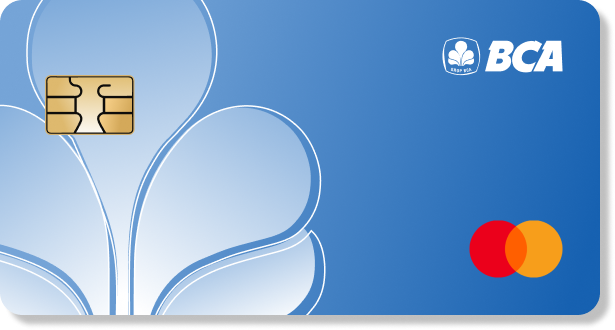
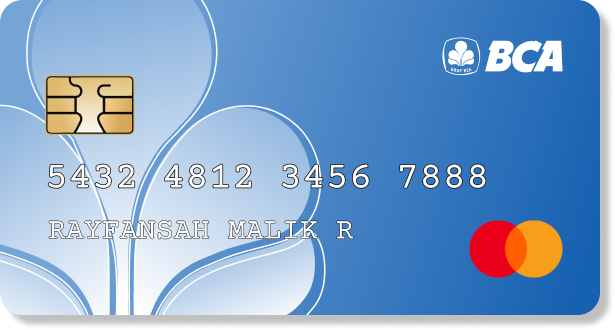
finish popup

diff --git a/content.html b/content.html
@@ -218,7 +218,7 @@
                         <h5 class="font-avenue-dream">Rayfan & Clarissa</h5>
                         <div class="header-title">
                             <p>Konfirmasi Kehadiranmu</p>
-                            <div class="exit-button">
+                            <div class="exit-button" onclick="btnExit()">
                                 <img src="assets/icons/exit.png" alt="exit">
                             </div>
                         </div>
@@ -257,28 +257,29 @@
                 </div>
                 <div class="popup-kirim">
                     <div class="popup-header">
-                        <h2>Kirim Hadiah</h2>
+                        <h2 class="font-avenue-dream font-color-blue">Kirim Hadiah</h2>
+                        <div class="exit-button" onclick="btnExit()">
+                            <img src="assets/icons/exit.png" alt="exit">
+                        </div>
                     </div>
                     <div class="popup-section">
-                        <p>Kamu bisa kirim kado ke alamat yang tertera di bawah ini :</p>
+                        <p class="font-color-brown">Kamu bisa kirim kado ke alamat yang tertera di bawah ini :</p>
                         <div class="address">
                             <div class="icon-address">
-                                <img src="assets/icons/location.png" alt="location">
+                                <img src="assets/icons/location-blue.png" alt="location">
                             </div>
-                            <p>Perumahan Citra Land blok A2, No. 4, Tamalanrea, Makassar, Sulawesi Selatan 90121</p>
+                            <p class="font-color-blue">Perumahan Citra Land blok A2, No. 4, Tamalanrea, Makassar, Sulawesi Selatan 90121</p>
                         </div>
-                        <p>Atau kamu bisa transfer uang ke rekening di bawah ini :</p>
+                        <p class="font-color-brown">Atau kamu bisa transfer uang ke rekening di bawah ini :</p>
                         <div class="transfer">
-                            <p>5432 4812 3456 7888</p>
-                            <p>RAYFANSAH MALIK R</p>
-                            <img src="assets/img/button-copy-rek.png" alt="button-copy-rek">
+                            <div class="copyrek"><a href=""><img src="assets/img/button-copy-rek.png" alt="button-copy-rek"></a></div>
                             <img src="assets/img/atm.png" alt="atm">
                         </div>
                         <div class="indicator">
-                            <div class="circle"></div>
-                            <div class="circle"></div>
-                            <div class="circle"></div>
-                            <div class="circle"></div>
+                            <div class="circle circle1"></div>
+                            <div class="circle circle2"></div>
+                            <div class="circle circle3"></div>
+                            <div class="circle circle4"></div>
                         </div>
                     </div>
                 </div>
@@ -291,7 +292,7 @@
                         </div>
                         <div class="rectangle-photo">
                             <div class="rectangle-relative"></div>
-                            <div class="rectangle-blue">
+                            <div class="rectangle-blue" onclick="btnKonfirmasi()">
                                 <h3 class="font-avenue-dream">Konfirmasi
                                     <br>Kehadiran</h3>
                             </div>
@@ -312,7 +313,7 @@
                                 <img src="assets/img/kirim_hadiah.png" alt="kirim_hadiah">
                             </div>
                             <div class="rectangle-relative"></div>
-                            <div class="rectangle-blue">
+                            <div class="rectangle-blue" onclick="btnKirim()">
                                 <h3 class="font-avenue-dream">Kirim
                                     <br>Hadiah</h3>
                             </div>

diff --git a/assets/css/style.css b/assets/css/style.css
@@ -57,6 +57,10 @@ img{
     color: #F8D18A;
 }
 
+.font-color-brown{
+    color: #AC936B;
+}
+
 container{
     background-color: rgb(255, 198, 127);
 }
@@ -681,20 +685,29 @@ container{
 }
 
 .popup{
+    z-index: 99999999999999;
+    position: fixed;
+    background: rgba(255, 255, 255, 0.1);
+    backdrop-filter: blur(10px);
     width: 100%;
-    padding: 8% 0;
+    height: 100vh;
     display: flex;
     flex-direction: column;
     align-items: center;
     justify-content: center;
-    background-color: #396793;
+    background-color: #fff;
+}
+
+.popup{
+    display: none;
 }
 
 .popup-konfirmasi, .popup-kirim{
+    position: relative;
     width: 85%;
-    height: 100%;
     background-color: #fff;
     border-radius: 30px;
+    box-shadow: 0 5px 25px rgb(0 0 0 / 20%);
 }
 
 .popup-header{
@@ -707,9 +720,9 @@ container{
     text-align: center;
     display: flex;
     align-items: center;
+    justify-content: center;
     padding: 15px;
     font-size: 14.29px;
-    font-weight: 400;
 }
 
 .popup-header .header-title{
@@ -727,7 +740,7 @@ container{
     font-weight: 400;
 }
 
-.popup-konfirmasi .exit-button{
+.popup-konfirmasi .exit-button, .popup-kirim .exit-button{
     width: 4%;
 }
 
@@ -745,7 +758,6 @@ container{
 .popup-section1 h4{
     font-size: 17.14px;
     margin-bottom: 0;
-    font-weight: 400;
 }
 
 .popup-konfirmasi .surat-ornaments{
@@ -769,7 +781,6 @@ container{
     margin-bottom: 12px;
     cursor: pointer;
     font-size: 15.71px;
-    font-weight: 400;
     -webkit-user-select: none;
     -moz-user-select: none;
     -ms-user-select: none;
@@ -849,15 +860,86 @@ container{
 
 .popup-footer .footer-title h2{
     font-size: 20px;
-    font-weight: 400;
     margin-bottom: 0;
     padding: 15px 15px 0 15px;
 }
 .popup-footer .footer-title h3{
     font-size: 18.57px;
-    font-weight: 400;
     margin-bottom: 0;
     padding: 0 15px 15px 15px;
+}
+
+.popup-kirim .popup-header{
+    padding: 15px;
+    display: flex;
+    justify-content: space-between;
+    align-items: center;
+}
+
+.popup-kirim .popup-header h2{
+    margin: 0;
+    font-size: 21.43px;
+}
+
+.popup-kirim .popup-section{
+    padding: 15px;
+}
+
+.popup-kirim .popup-section p{
+    margin-bottom: 0;
+    font-size: 14.29px;
+    font-weight: 600;
+}
+
+.popup-kirim .popup-section .address{
+    display: flex;
+    flex-direction: row;
+    align-items: center;
+    width: 100%;
+    margin: 15px 0;
+}
+
+.popup-kirim .popup-section .icon-address{
+    width: 6%;
+    margin-right: 10px;
+}
+
+.popup-kirim .popup-section .address p{
+    font-size: 12.86px;
+    font-weight: 400;
+}
+
+.popup-kirim .popup-section .transfer{
+    margin: 15px 0;
+    position: relative;
+}
+
+.popup-kirim .popup-section .transfer .copyrek{
+    position: absolute;
+    right: 15px;
+    bottom: 15px;
+    text-align: right;
+    width: 10.5%;
+}
+
+.popup-kirim .popup-section .indicator{
+    display: flex;
+    justify-content: center;
+}
+
+.popup-kirim .popup-section .indicator .circle{
+    width: 5px;
+    height: 5px;
+    background-color: #D9D9D9;
+    border-radius: 100%;
+}
+
+.popup-kirim .popup-section .indicator .circle1{
+    background-color: #396793;
+}
+
+.indicator .circle1, .indicator .circle2, .indicator .circle3{
+    margin-right: 5px;
 }
 
 .section10 .vector{
@@ -926,6 +1008,7 @@ container{
     align-items: center;
     justify-content: center;
     position: absolute;
+    cursor: pointer;
 }
 
 .section10 .konfirmasi .rectangle-blue{

diff --git a/assets/js/script.js b/assets/js/script.js
@@ -57,3 +57,31 @@ function updateclock(remainingTime) {
 function Number(number) {
     return number < 10 ? "0" + number : number;
 }
+
+const popupScreen = document.querySelector(".popup");
+const popupKonfirmasi = document.querySelector(".popup-konfirmasi");
+const popupKirim = document.querySelector(".popup-kirim");
+
+function btnKonfirmasi() {
+    console.log("berhasil masuk overlay");
+    popupScreen.style.display = "flex";
+    popupKonfirmasi.style.display = "block";
+    popupKirim.style.display = "none";
+    start();
+}
+
+function btnKirim() {
+    console.log("berhasil masuk overlay");
+    popupScreen.style.display = "flex";
+    popupKirim.style.display = "block";
+    popupKonfirmasi.style.display = "none";
+    start();
+}
+
+function btnExit() {
+    console.log("berhasil masuk overlay");
+    popupScreen.style.display = "none";
+    popupKonfirmasi.style.display = "none";
+    popupKirim.style.display = "none";
+    start();
+}
